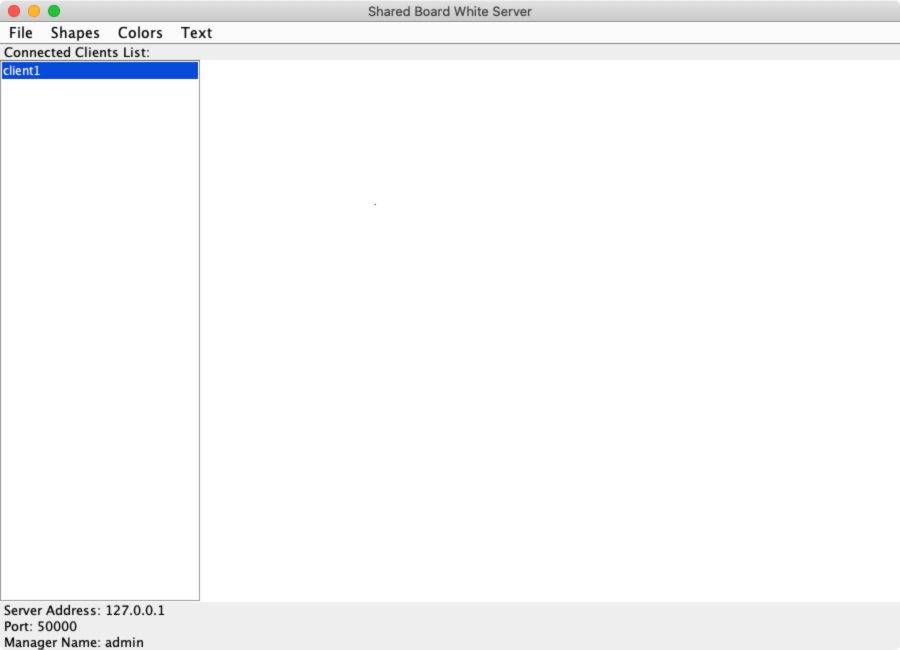
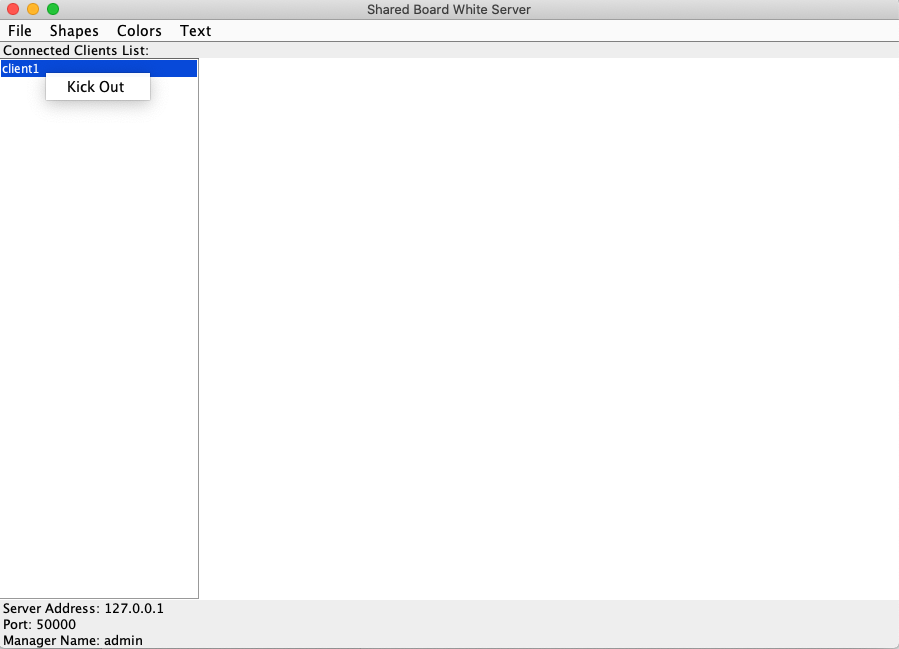
update demo

Changed region(s): [[0.0, 0.8937, 1.0, 1.0], [0.0, 0.0, 0.2492, 0.1849], [0.4049, 0.0, 0.5918, 0.0308]]

diff --git a/README.md b/README.md
@@ -54,7 +54,15 @@ Client enter the room
 
 ![connected](img/connected.png)
 
+### Kickout
+
+Right click the client
+
+![kickout-window](img/kickout-window.png)
+
+![kickout-notification](img/kickout-notification.png)
 
 ### Drawing
 
 ![drawing](img/drawing.gif)
+
